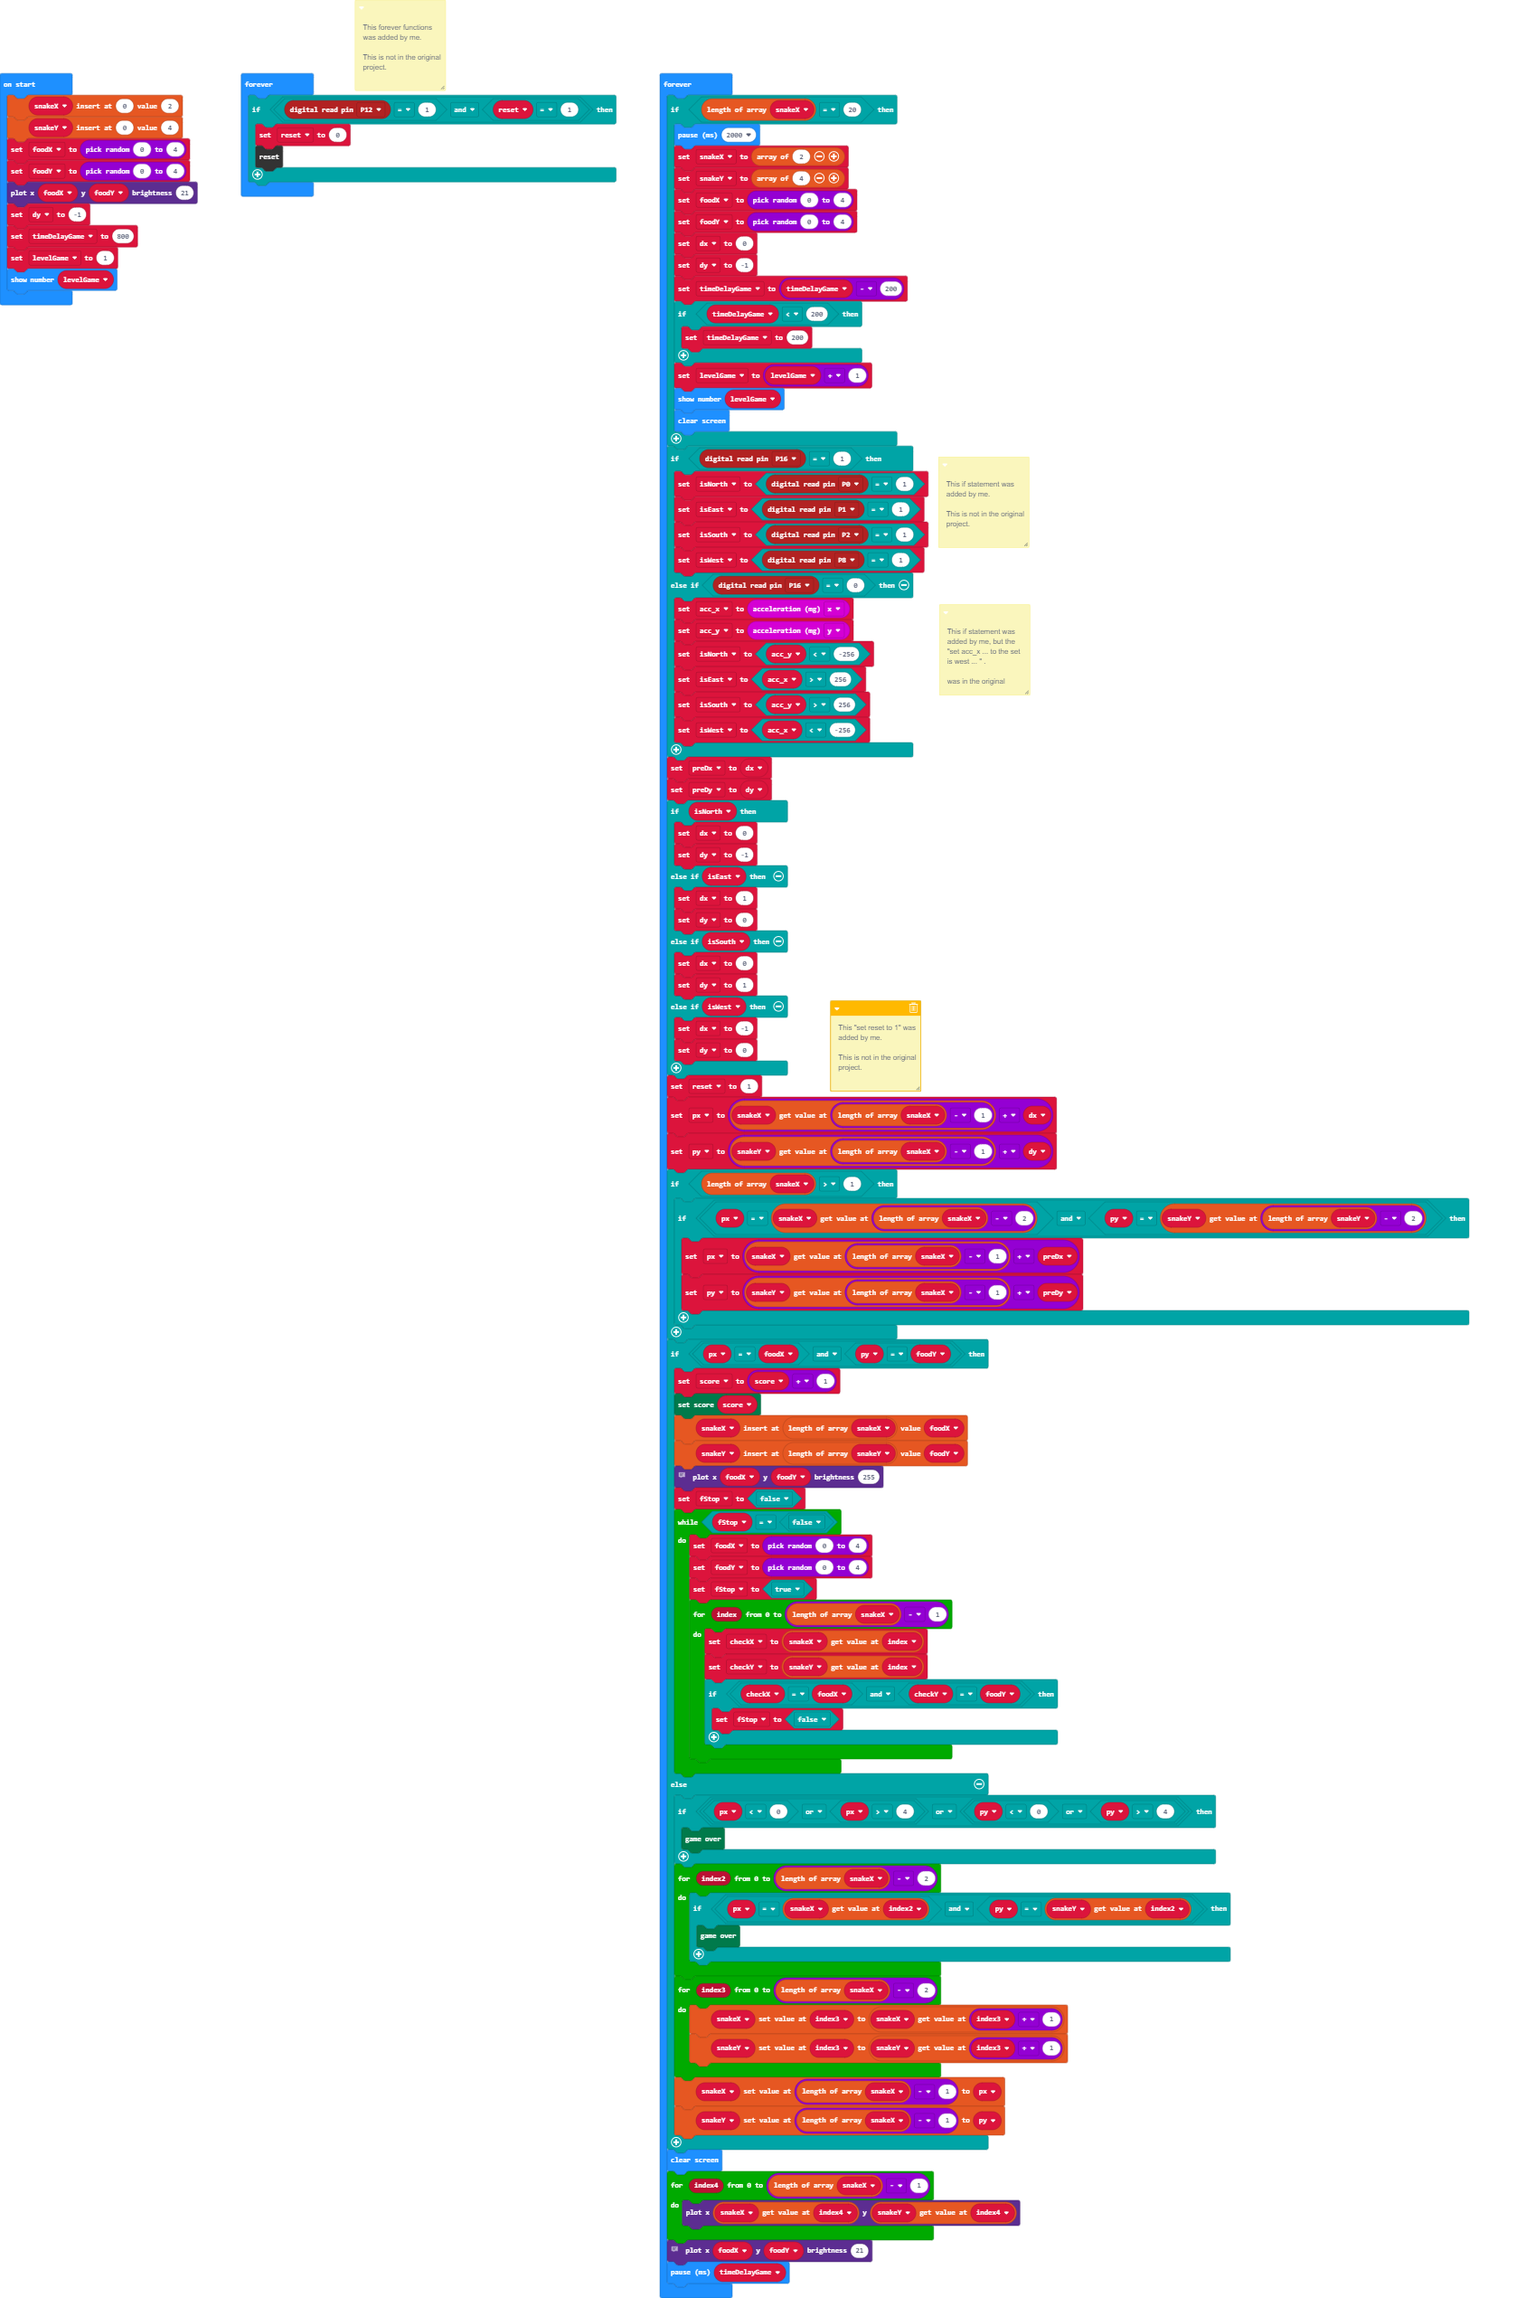
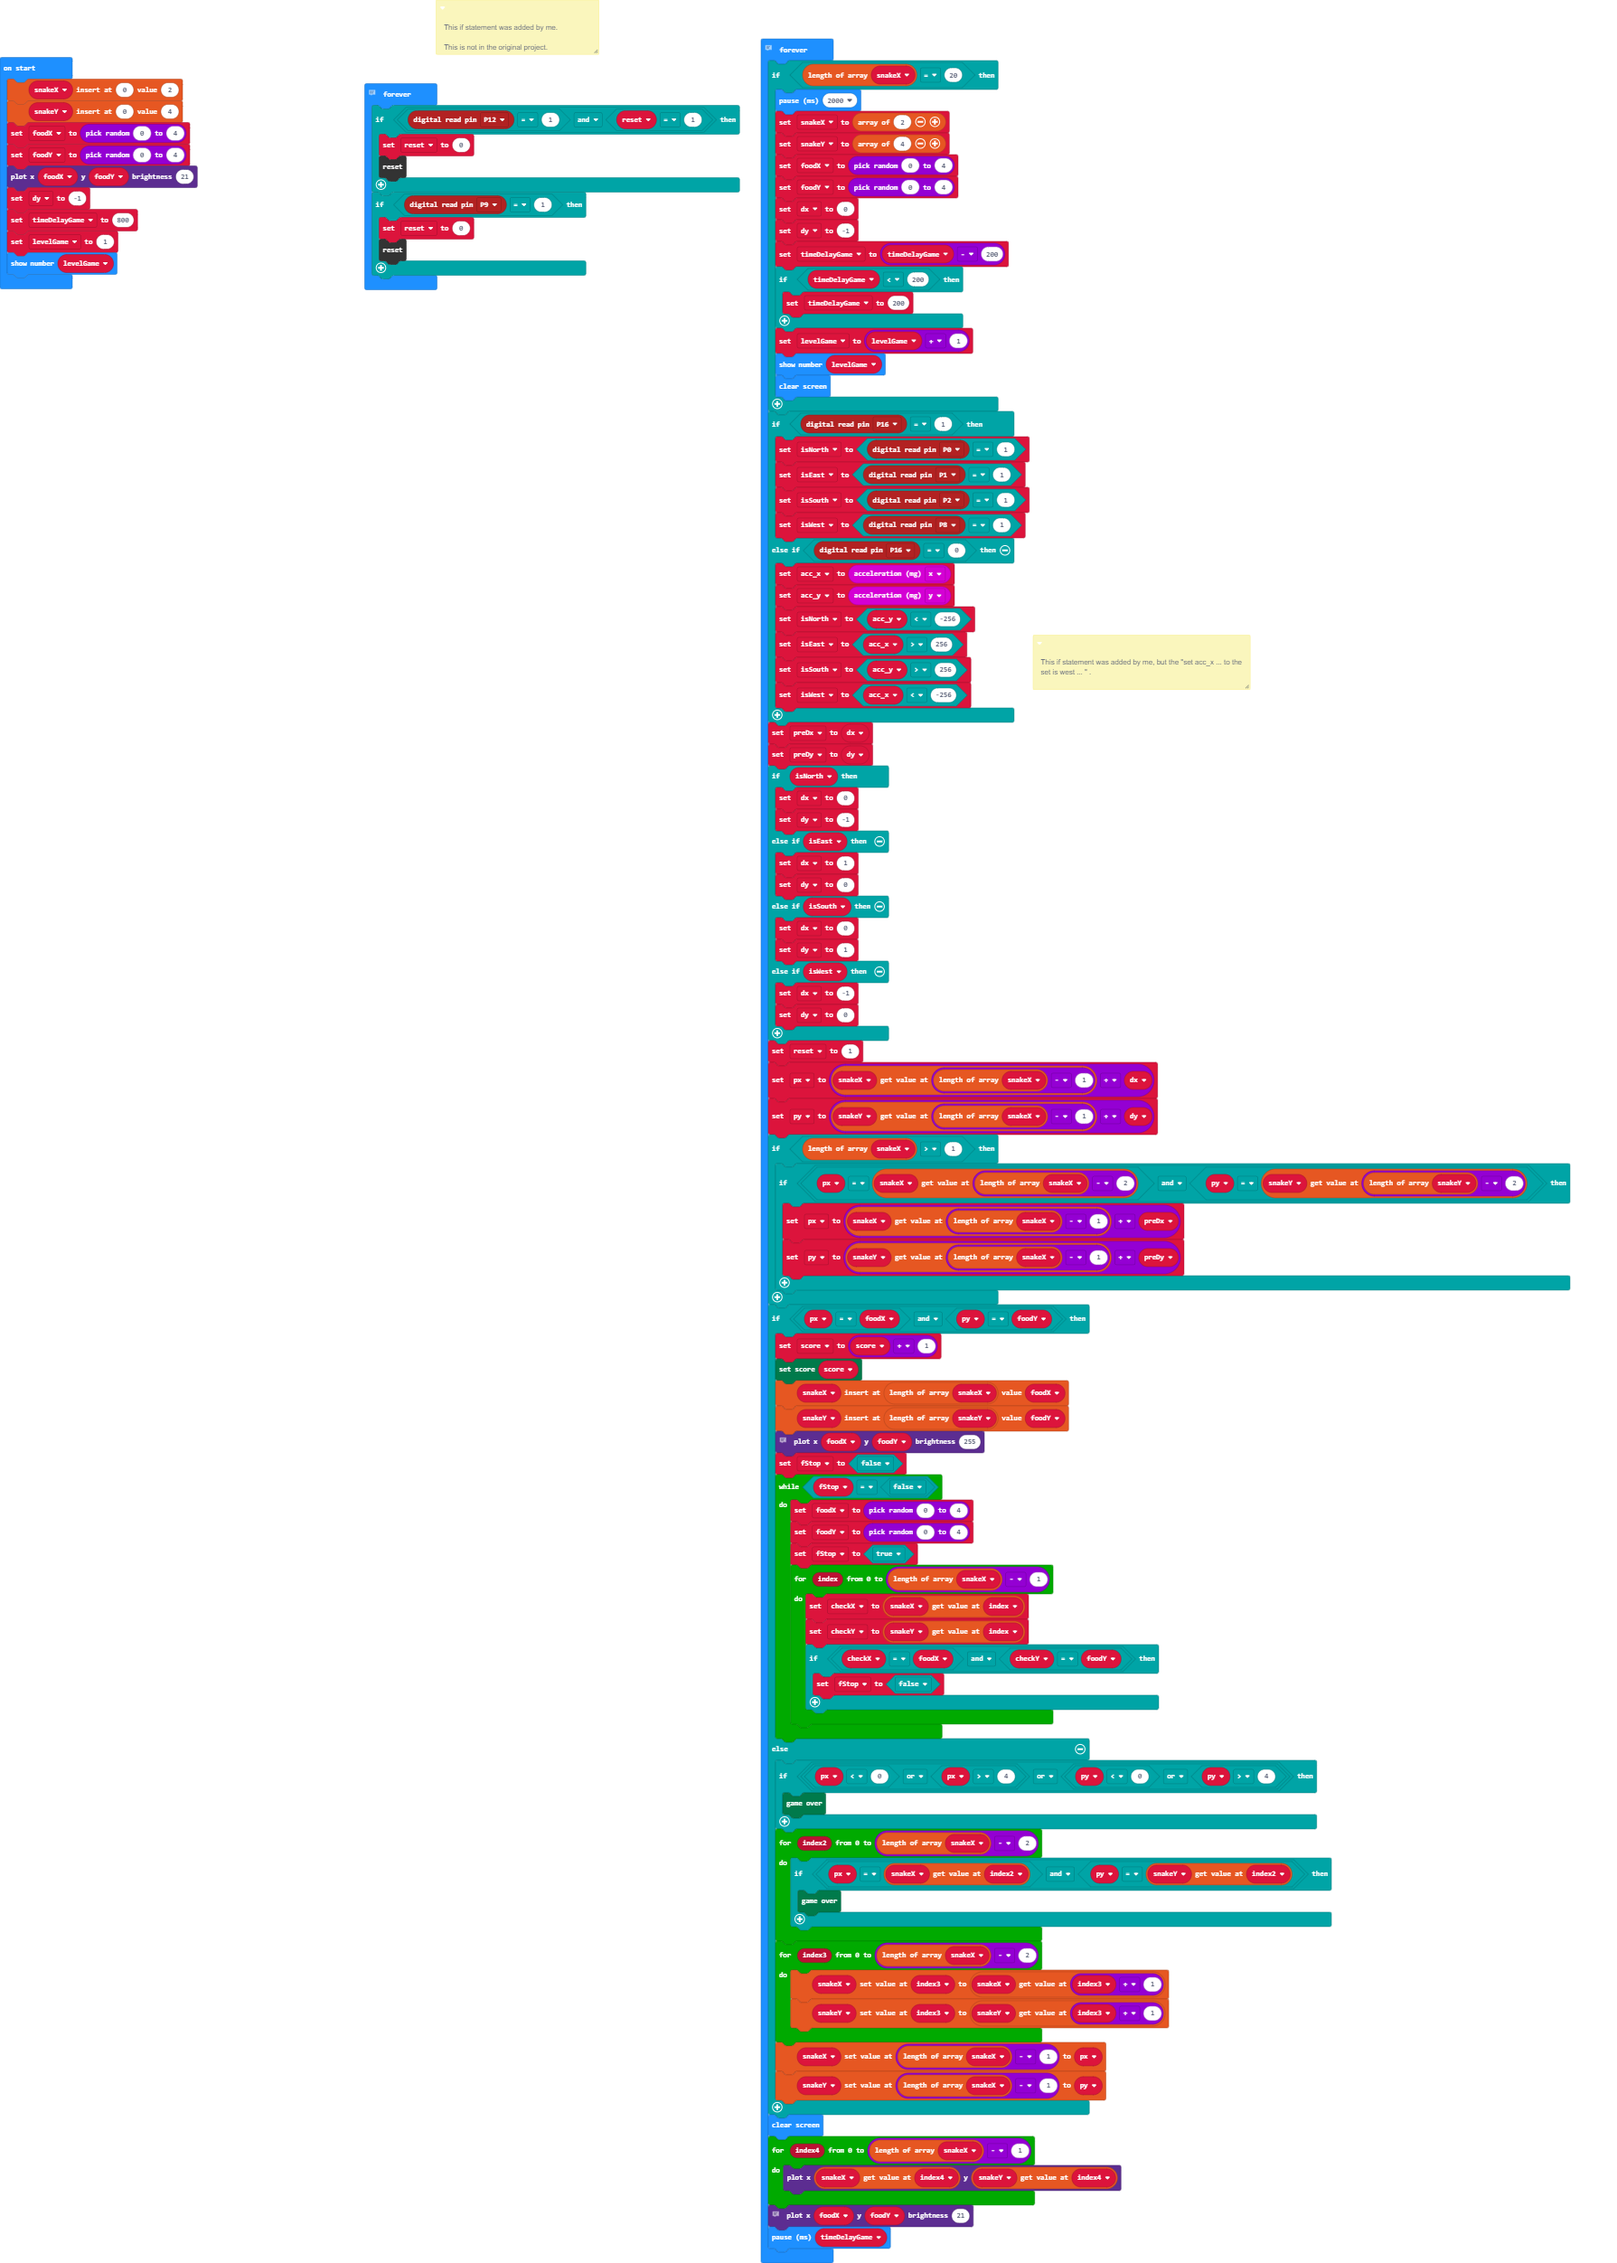
Update main.blocks, main.ts

Changed region(s): [[0.155, 0.0, 0.9922, 1.0], [0.0, 0.0, 0.124, 0.1558]]

diff --git a/main.ts b/main.ts
@@ -1,9 +1,15 @@
+/**
+ * This if statement was added by me.
+ * 
+ * This is not in the original project.
+ */
 let checkY = 0
 let checkX = 0
 let fStop = false
 let score = 0
 let py = 0
 let px = 0
+let reset = 0
 let preDy = 0
 let preDx = 0
 let acc_y = 0
@@ -13,7 +19,6 @@ let isSouth = false
 let isEast = false
 let isNorth = false
 let dx = 0
-let reset = 0
 let snakeY: number[] = []
 let snakeX: number[] = []
 snakeX.insertAt(0, 2)
@@ -26,31 +31,13 @@ let timeDelayGame = 800
 let levelGame = 1
 basic.showNumber(levelGame)
 /**
- * This forever functions was added by me.
- * 
- * This is not in the original project.
- */
-basic.forever(function () {
-    if (pins.digitalReadPin(DigitalPin.P12) == 1 && reset == 1) {
-        reset = 0
-        control.reset()
-    }
-})
-/**
- * This if statement was added by me.
- * 
- * This is not in the original project.
- */
-/**
  * This if statement was added by me, but the "set acc_x ... to the set is west ... " .
  * 
  * was in the original
  */
-/**
- * This "set reset to 1" was added by me.
- * 
- * This is not in the original project.
- */
+// This "set reset to 1" was added by me.
+// 
+// This is not in the original project.
 basic.forever(function () {
     if (snakeX.length == 20) {
         basic.pause(2000)
@@ -150,4 +137,17 @@ basic.forever(function () {
     // foodY = Math.random(5)
     led.plotBrightness(foodX, foodY, 21)
     basic.pause(timeDelayGame)
+})
+// This forever functions was added by me.
+// 
+// This is not in the original project.
+basic.forever(function () {
+    if (pins.digitalReadPin(DigitalPin.P12) == 1 && reset == 1) {
+        reset = 0
+        control.reset()
+    }
+    if (pins.digitalReadPin(DigitalPin.P9) == 1) {
+        reset = 0
+        control.reset()
+    }
 })
